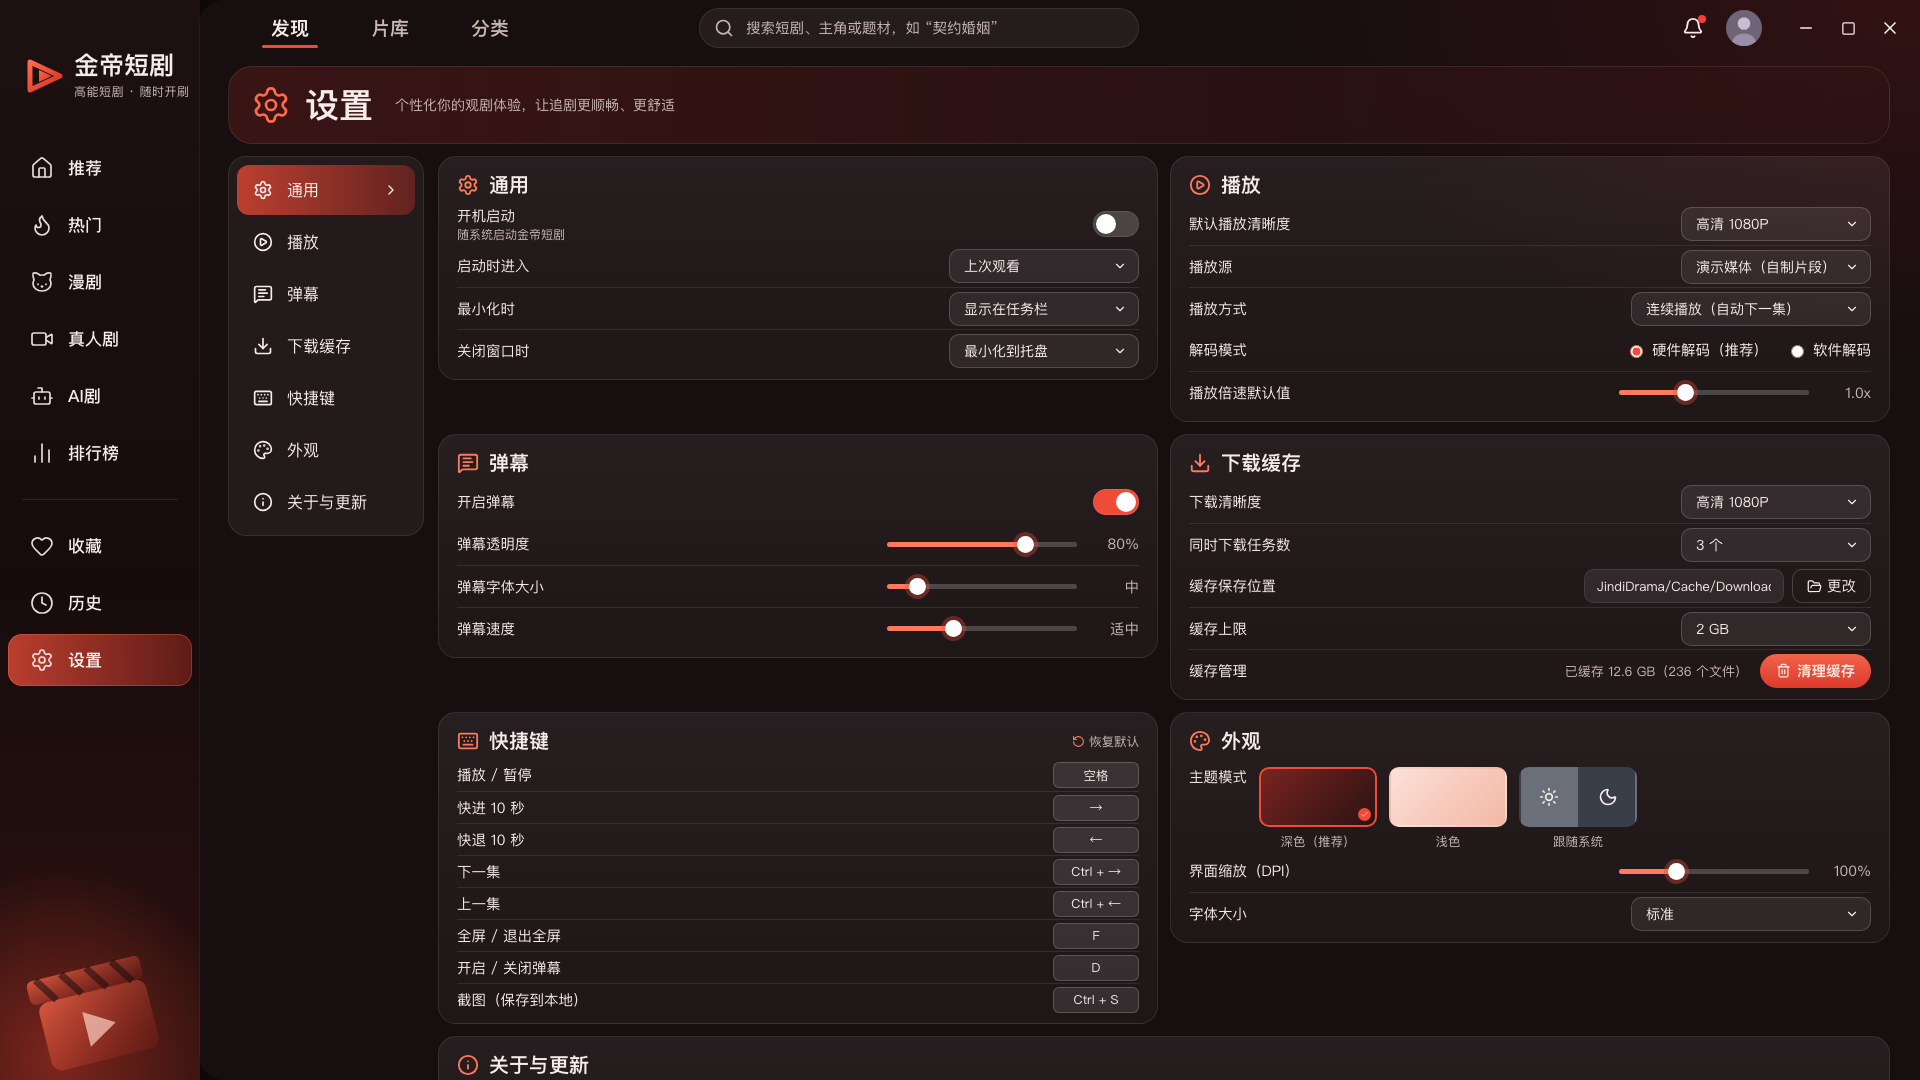
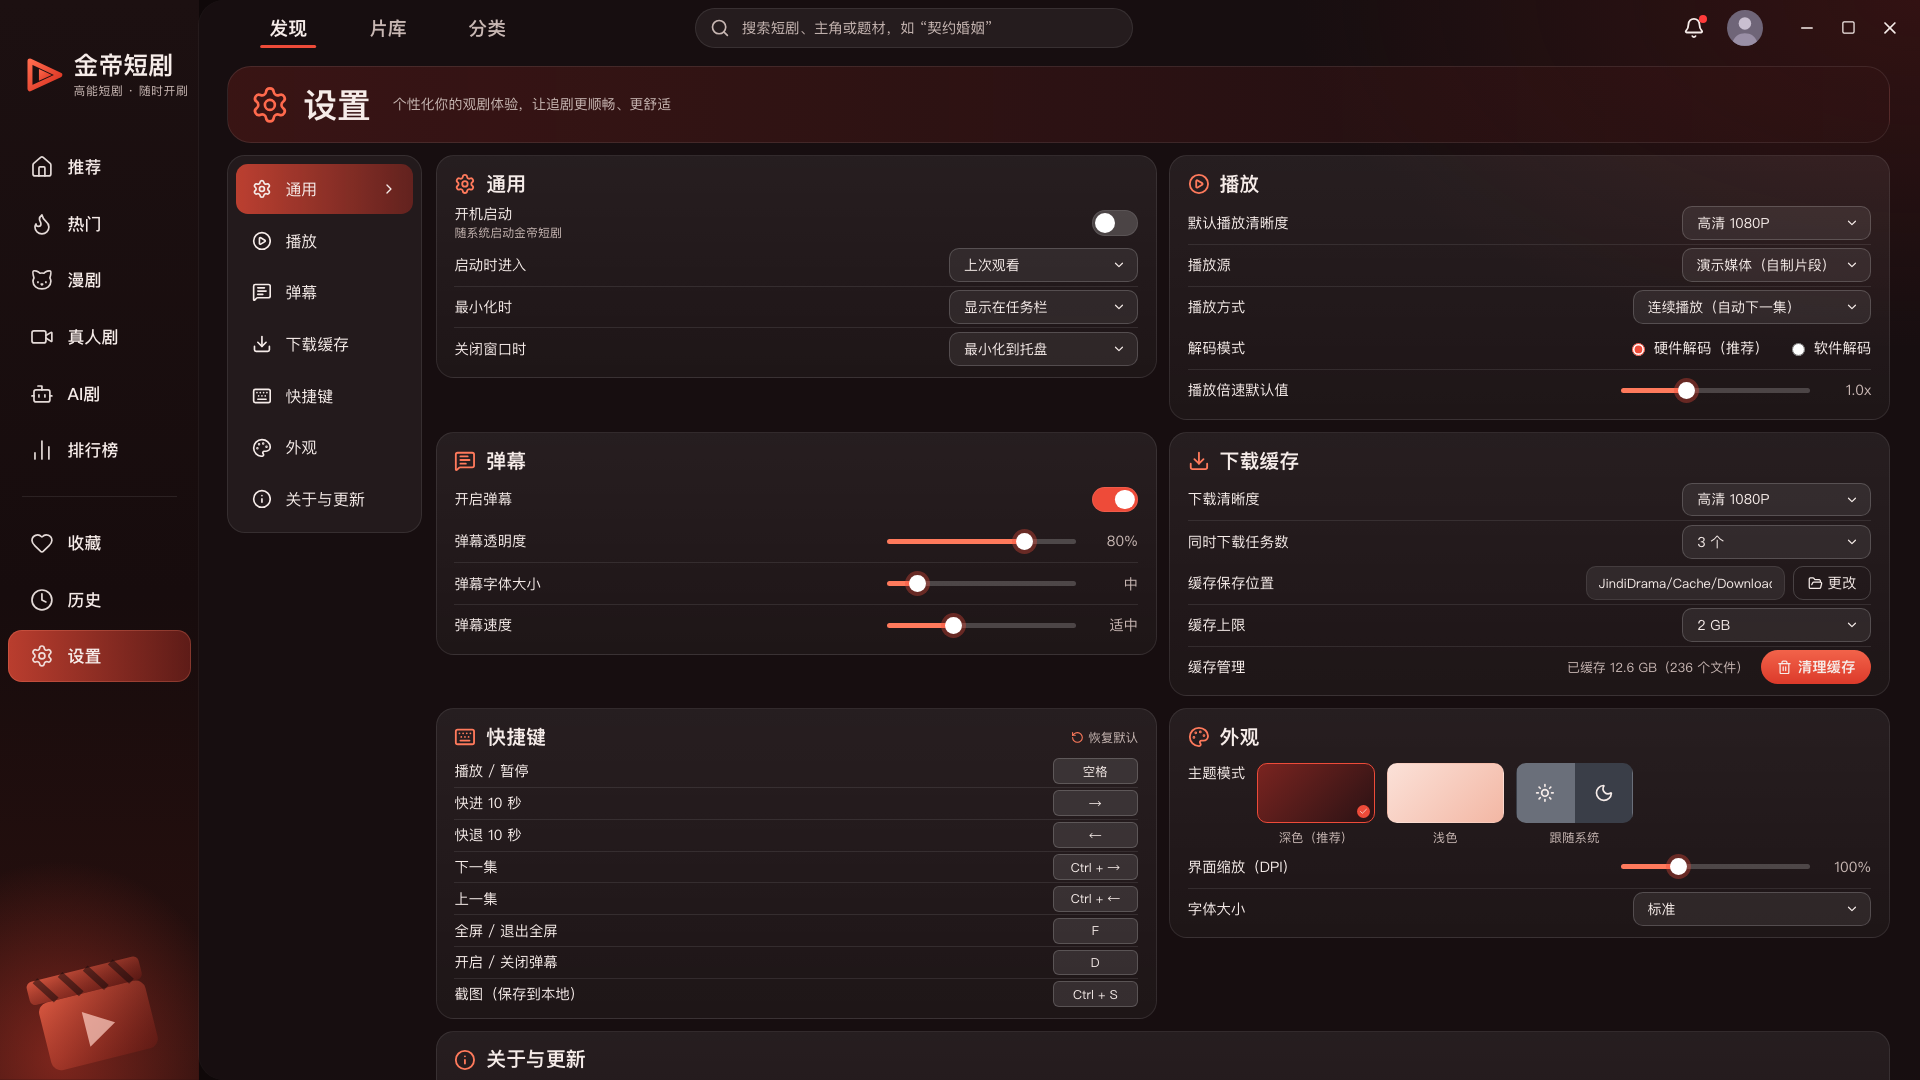
fix: 窗口缩小时内容按比例缩小（双向自适应）
Claude-Session: https://claude.ai/code/session_01FkchafgkzNwSSFxAZgtPwt

diff --git a/frontend/tests/e2e/01-home.spec.ts b/frontend/tests/e2e/01-home.spec.ts
@@ -36,4 +36,11 @@ test.describe('01 首页推荐', () => {
       await page.screenshot({ path: `../design/rendered/responsive/01-${w}x${h}.png` })
     })
   }
+  test('shrinking the window scales content down with no overflow (min window 1180x720)', async ({ page }) => {
+    await page.setViewportSize({ width: 1180, height: 720 })
+    await page.goto('/#/home'); await page.reload()
+    await expect(page.getByTestId('hero')).toBeVisible()
+    const m = await page.evaluate(() => ({ z: Number(getComputedStyle(document.documentElement).getPropertyValue('--app-zoom')), sw: document.documentElement.scrollWidth, cw: document.documentElement.clientWidth, sh: document.documentElement.scrollHeight, ch: document.documentElement.clientHeight }))
+    expect(m.z).toBeLessThan(1); expect(m.sw).toBeLessThanOrEqual(m.cw); expect(m.sh).toBeLessThanOrEqual(m.ch)
+  })
 })

diff --git a/frontend/src/main.ts b/frontend/src/main.ts
@@ -6,9 +6,9 @@ import './styles/base.scss'
 import { prime } from './bindings'
 import { useAppSettings } from './stores/appSettings'
 
-// 窗口 > 1448×1086 时按比例放大（zoom），小于时保持 1:1 并滚动内容区。
+// 按窗口相对设计稿 1448×1086 的比例双向缩放（0.66–2）：放大变大、缩小变小，布局宽高随之重排。
 function applyZoom() {
-  const z = Math.min(2, Math.max(1, Math.min(window.innerWidth / 1448, window.innerHeight / 1086)))
+  const z = Math.min(2, Math.max(0.66, Math.min(window.innerWidth / 1448, window.innerHeight / 1086)))
   document.documentElement.style.setProperty('--app-zoom', String(z))
 }
 applyZoom(); window.addEventListener('resize', applyZoom)

diff --git a/docs/STATUS.md b/docs/STATUS.md
@@ -51,3 +51,8 @@
 - 修复 1：主题/缩放/字体只在打开设置页时才应用，重启后首页恢复默认。现在 `main.ts` 启动即实例化 appSettings；新增 e2e 回归测试。
 - 修复 2：浅色主题从未目视验收，侧栏/轮播/卡片/播放器文字在浅色下不可读。新增 `.on-dark` 作用域覆盖深色底区域，并逐页截图复核（首页、详情、播放、收藏、登录、设置）。搜索、历史两页的浅色未逐张复核。
 - 已知缺口：设置里「关闭窗口时：最小化到托盘」「开机启动」只保存选项，桌面端没有托盘、也没有真正注册开机启动，不能算已实现。
+
+## 窗口尺寸与缩放（2026-11-24）
+- 默认窗口 1448×1086（设计稿尺寸），最小 1180×720，无边框。
+- 修复：原来只在窗口大于设计稿时放大，缩小时不缩放只出现滚动。现在按窗口相对 1448×1086 的比例双向缩放（0.66–2），布局宽高随窗口重排。1180×720、1366×768 下无滚动条（浏览器验证 + e2e 回归）。
+- 未验证：在真实桌面窗口里拖动调整大小的手感（只做了固定尺寸视口的验证）。
